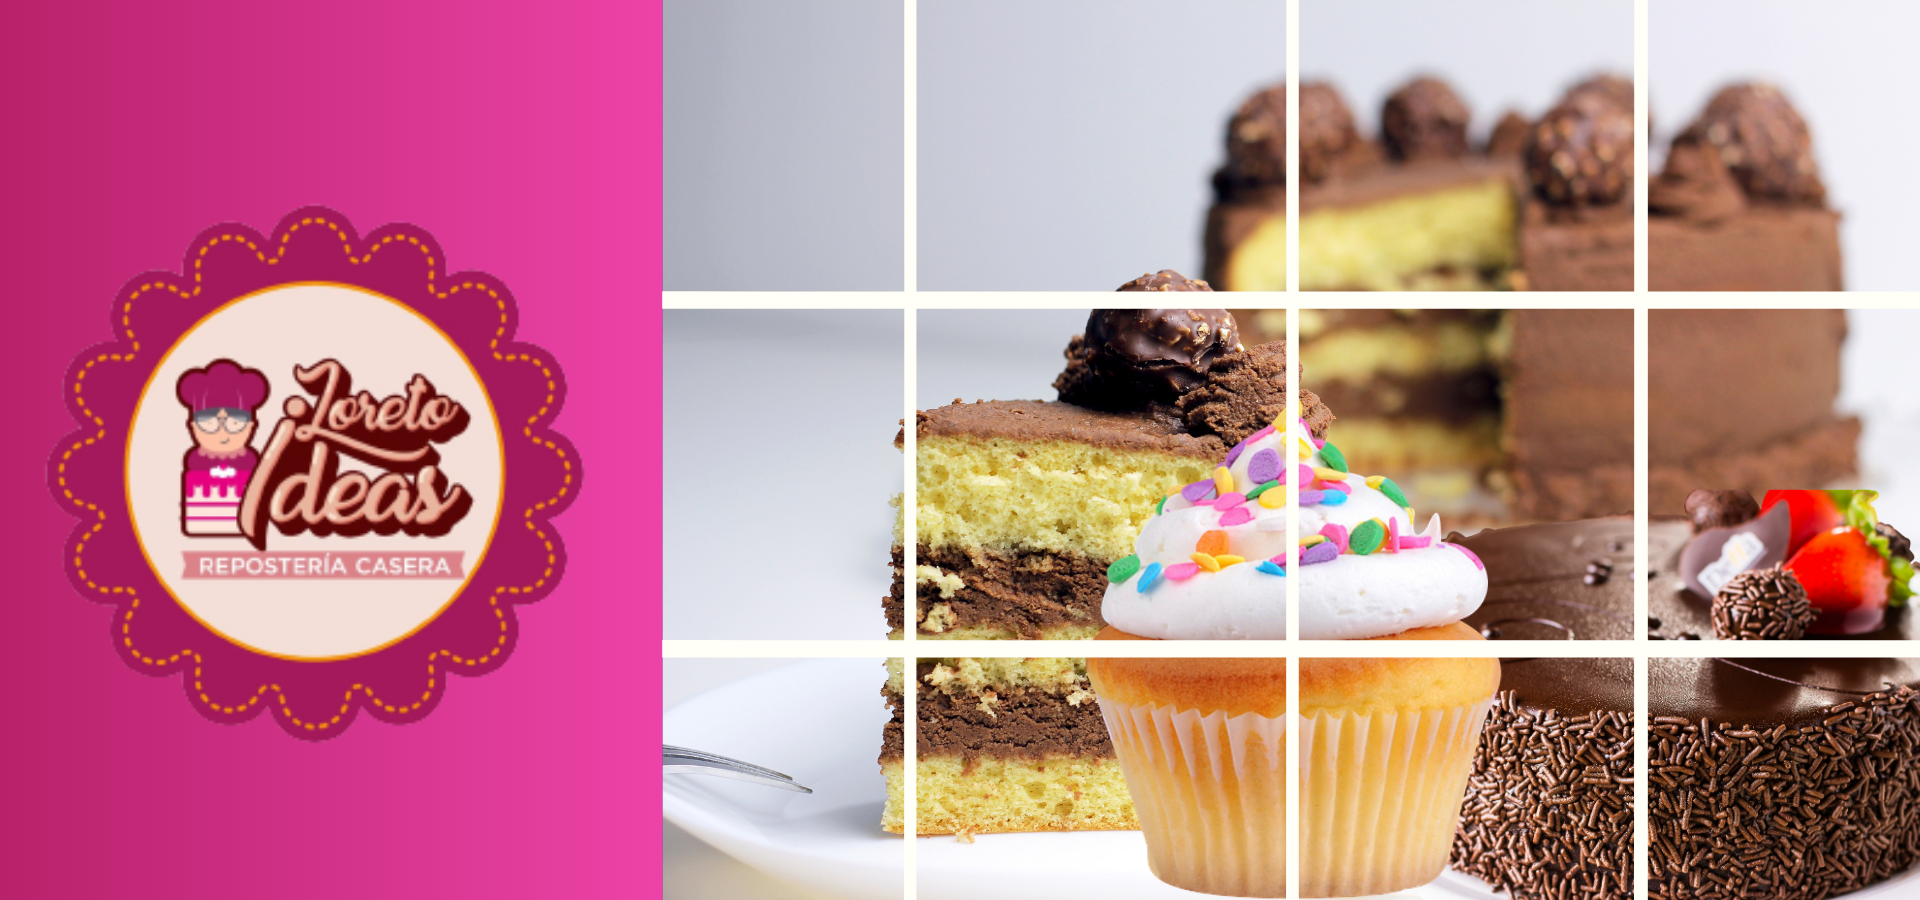
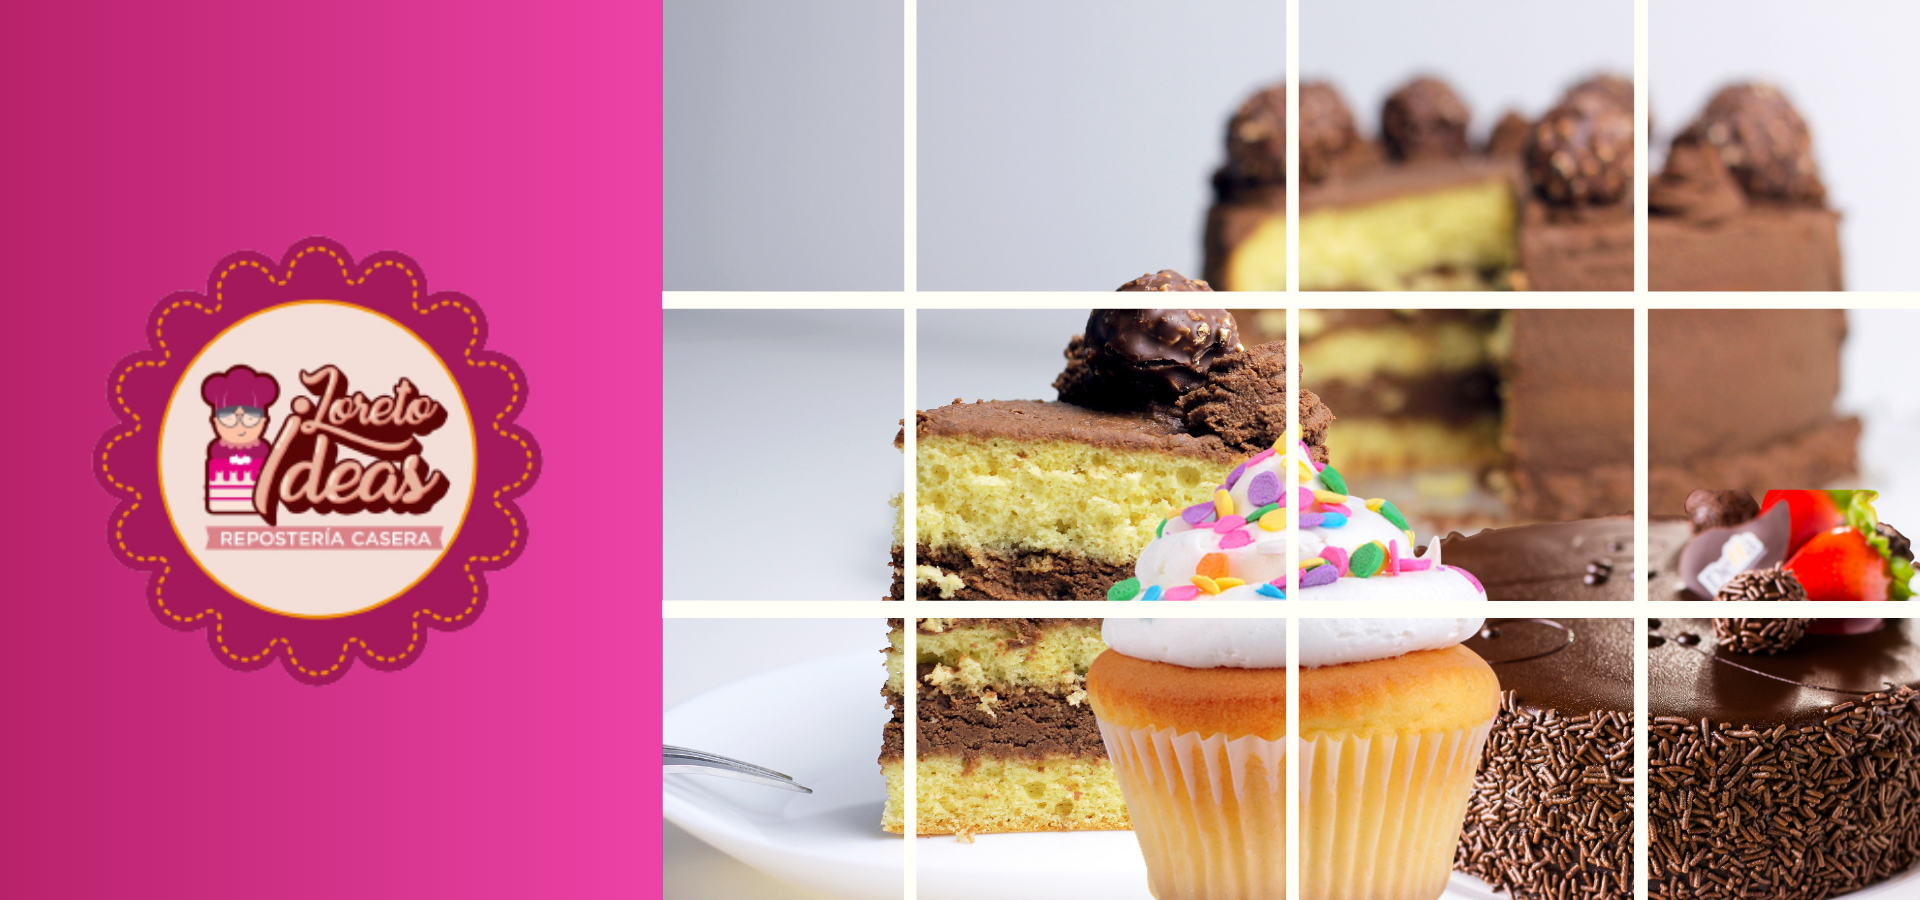
correcion de carrusel inicio y vista completa

Changed region(s): [[0.3438, 0.4356, 1.0, 1.0], [0.0, 0.2178, 0.3125, 0.84]]

diff --git a/src/components/pages/Inicio/Inicio.css b/src/components/pages/Inicio/Inicio.css
@@ -8,7 +8,8 @@
 @media (max-width: 768px) {
   
   .carrusel-inicio {
-    max-height: 200px; 
+    width: 100vw;
+    height: auto;
   }
   .caja-texto-mobile{
     color:#4B102D ;
@@ -37,6 +38,8 @@
     height: 55px;
     margin: 10px 0 5px 0;
     width: 100%;
+    padding-top: 30px;
+
   }
   .contendor-boton{
     display: flex;
@@ -77,6 +80,7 @@
   .contenedor-texto{
     height: 45px;
     text-align: center;
+    padding-top: 22px;
   }
   .carousel-control-prev,
   .carousel-control-next {
@@ -98,7 +102,7 @@
     padding: 0;
 }
   .carrusel-inicio {
-    height: 300px;
+    height: auto;
     width: 100%;
     object-fit: cover;
   }
@@ -120,14 +124,15 @@
     background-color:#B8226A ;
   }
   .contenedor-principal-texto{
+    
     padding: 0;
   }
   .img-cuadricula{
     height: auto;
     width: 100%;
-    object-fit: cover;
+    /* object-fit: cover;
     display: none;
-    visibility: hidden;
+    visibility: hidden; */
   }
   .botones-inicio{
     height: 100px;

diff --git a/src/components/pages/Footer/Footer.css b/src/components/pages/Footer/Footer.css
@@ -22,12 +22,16 @@ footer {
   background: rgb(184,34,106);
   background: linear-gradient(94deg, rgba(184,34,106,1) 13%, rgba(237,67,168,1) 38%);  color:var(--color-segundo);
   font-size: 12px;
-  padding-top: 10px;
+  padding-top: 3px;
   position: relative;
   bottom: 0;
   width: 100%;
+  height: 20vh;
   font-family: 'Khand', sans-serif;
   overflow: hidden;
+
+
+
 }
 
 p.datos-contacto{
@@ -88,6 +92,7 @@ p.datos-contacto{
 
 
 @media (min-width: 768px) and (max-width: 991px){
+
   .alineacion{
     align-items: center;
     margin: 0 auto;
@@ -140,6 +145,11 @@ p.datos-contacto{
 }
 
 @media (max-width: 767px){
+  footer{
+      height: 20vh;
+
+  }
+
   .alineacion{
     align-items: center;
    width: 100%;
@@ -203,7 +213,7 @@ p.datos-contacto{
   
 }
 p.derechos{
-  margin-bottom: 10px;
+  margin-bottom: 5px;
   font-size: 12px;
   font-family: 'Khand', sans-serif;
 }

diff --git a/src/components/pages/Inicio/Inicio.jsx b/src/components/pages/Inicio/Inicio.jsx
@@ -11,16 +11,18 @@ import { Link } from "react-router-dom";
 
 function ShapeExample() {
   return ( 
-    <div className="viewport inicio-fondo">
+  <>
     <NavBarPage/>
-
-        <div className=" container-fluid contenedor-principal-texto w100">
       <Image src="public/img/bannerPrincipal.png" className="p-0 img-cuadricula" />
       <img
           className="delivery"
           src="public/img/delivery.png"
           alt="banner delivery"
         />
+        <div className="viewport inicio-fondo">
+
+        <div className=" container-fluid contenedor-principal-texto w100">
+
       <Row className="botones-inicio">
         <Col xs={4} md={4} className="contendor-boton">
           <Image
@@ -77,7 +79,7 @@ function ShapeExample() {
     <DarkVariantExample/>
     <Footer/>
     </div>
-    
+    </>
   );
 }
 

diff --git a/src/components/pages/Inicio/Carrusel-inicio.jsx b/src/components/pages/Inicio/Carrusel-inicio.jsx
@@ -7,21 +7,21 @@ function DarkVariantExample() {
       <Carousel.Item>
         <img
           className="d-block w-100 carrusel-inicio"
-          src="img\torta4.jpg"
+          src="img/carrusel1.png"
           alt="First slide"
         />
       </Carousel.Item>
       <Carousel.Item>
         <img
           className="d-block w-100 carrusel-inicio"
-          src="img\torta1.jpg"
+          src="img/carrusel2.png"
           alt="Second slide"
         />
       </Carousel.Item>
       <Carousel.Item>
         <img
           className="d-block w-100 carrusel-inicio"
-          src="img\torta3.jpg"
+          src="img/carrusel3.png"
           alt="Third slide"
         />
       </Carousel.Item>
